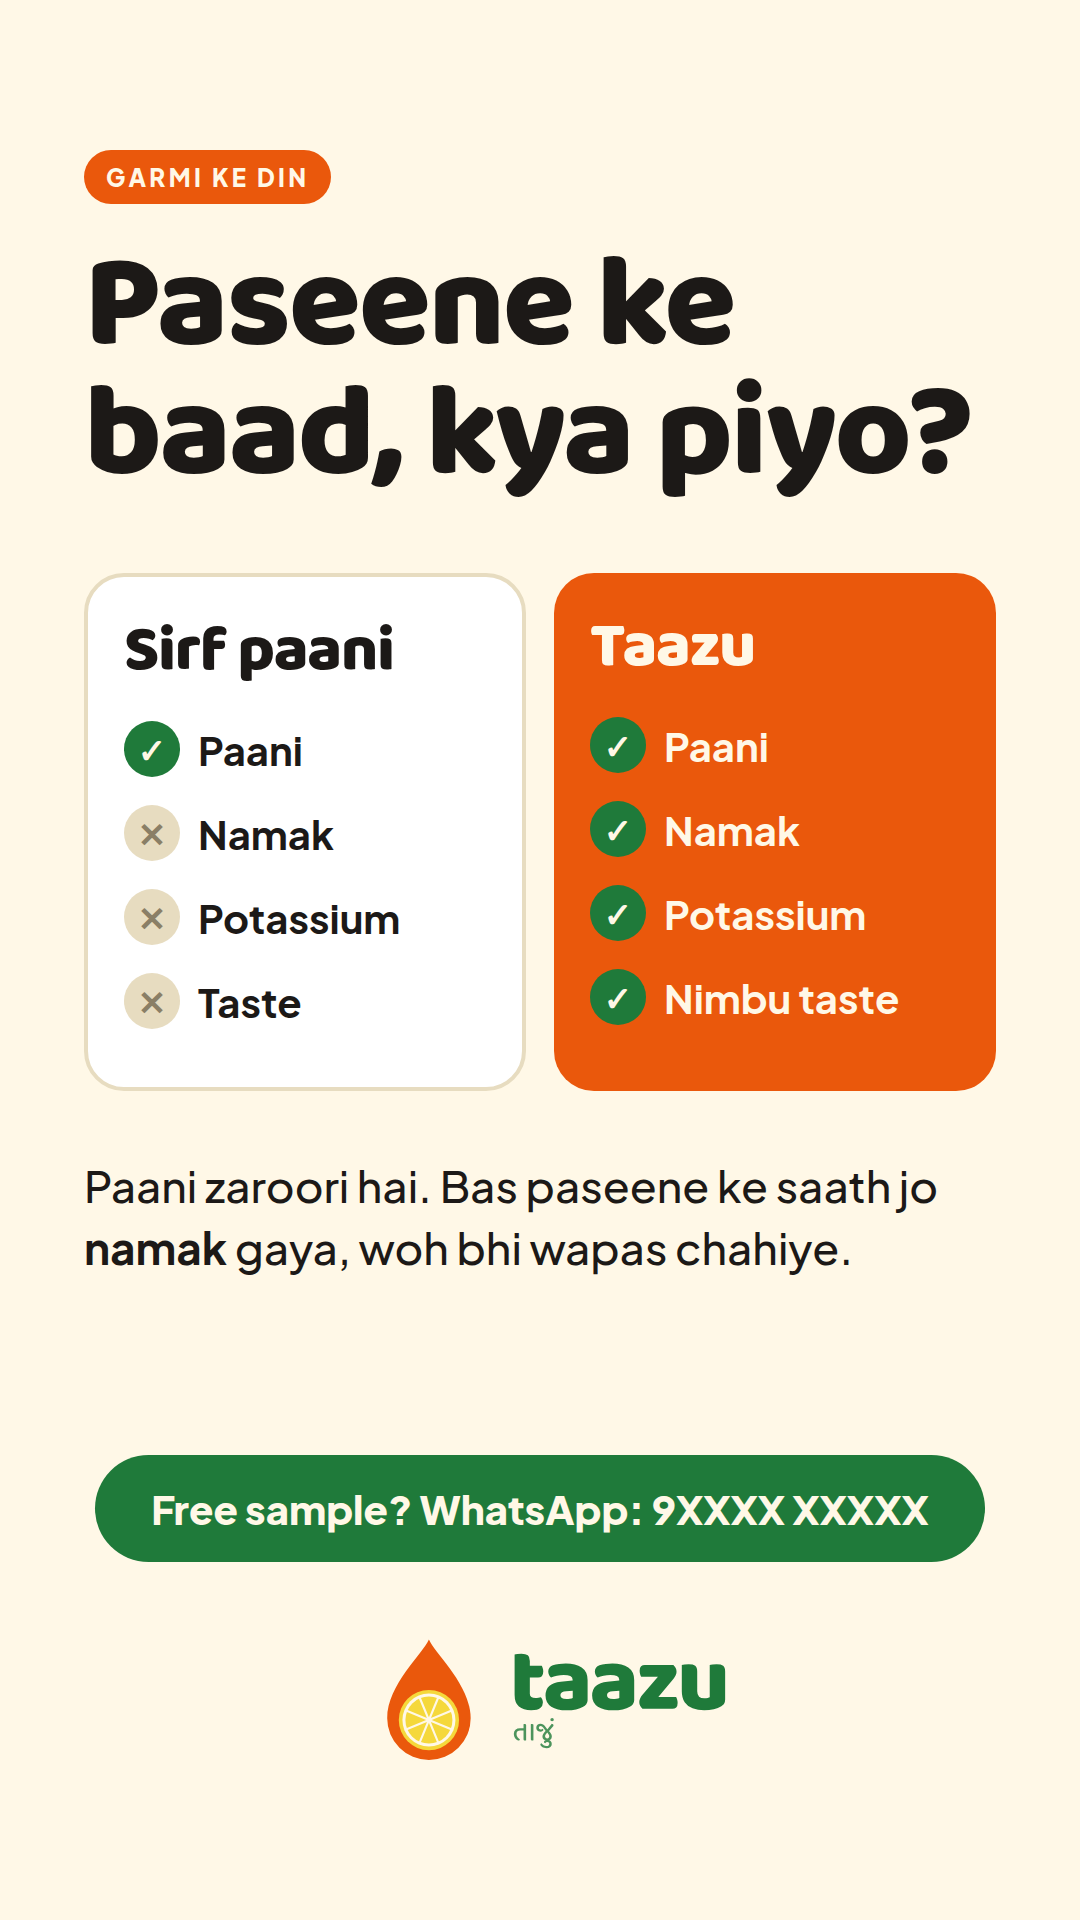
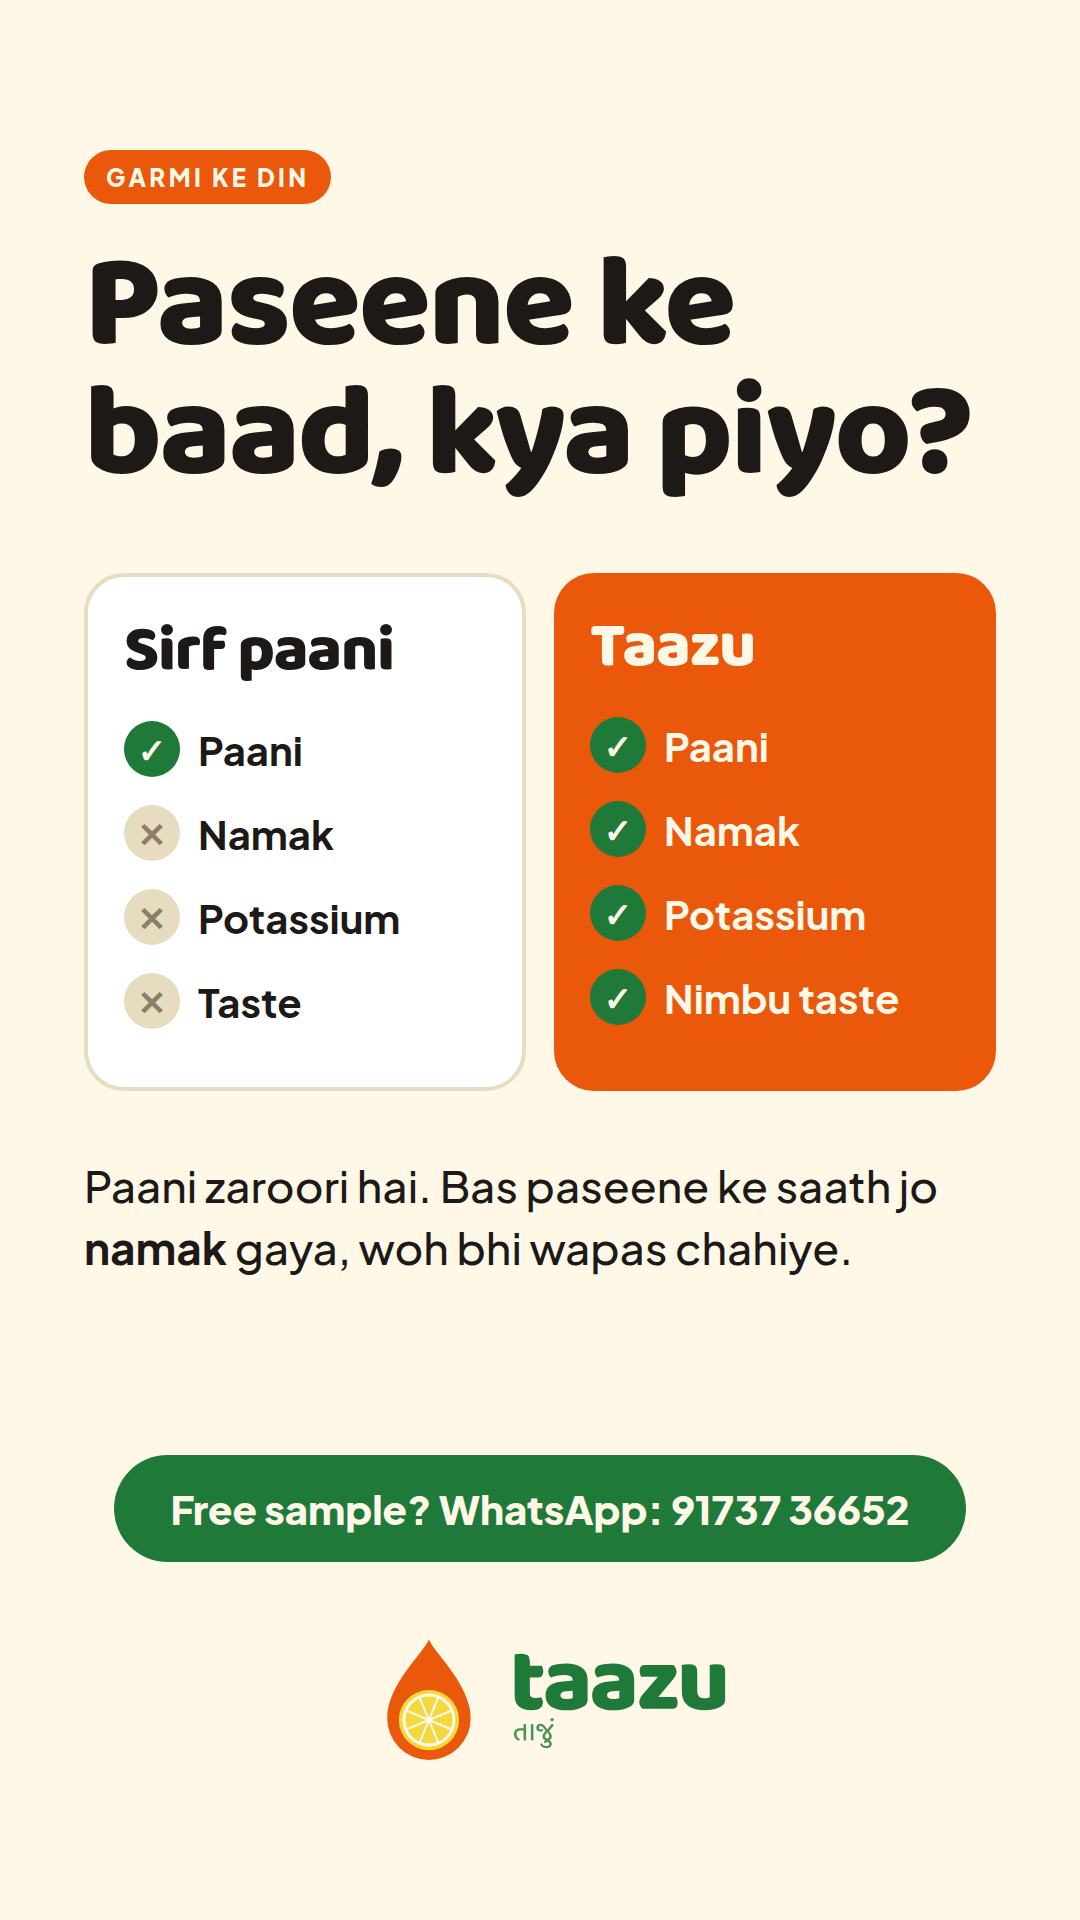
Brand kit: fill in ₹25 price, WhatsApp number and order QR
Story, A4 poster, Navratri post and Hindi poster now carry the real price
and WhatsApp 91737 36652; the poster QR opens a WhatsApp chat. Page,
README and captions updated to match.

Claude-Session: https://claude.ai/code/session_01Qx6Yj4noLC777LyuhJgzmX

Changed region(s): [[0.0917, 0.75, 0.9167, 0.8125]]

diff --git a/brand-kit/index.html b/brand-kit/index.html
@@ -408,10 +408,10 @@ footer{padding-block:56px 40px;color:var(--muted);font-size:14px}
   <div class="sec-head">
     <div class="eyebrow">Part 4</div>
     <h2>Awareness creatives</h2>
-    <p>8 ready files <code>brand-kit/creatives/</code> mein: Instagram posts (1080×1350), story (1080×1920), aur A4 poster (300 dpi, print ready). Har fact ke neeche source likha hai. Image par tap karke full size kholo. Pehle 5 aaj hi post ho sakte hain; <span class="pill fill">Fill</span> wale mein price ya number daalna hai.</p>
+    <p>8 ready files <code>brand-kit/creatives/</code> mein: Instagram posts (1080×1350), story (1080×1920), aur A4 poster (300 dpi, print ready). Har fact ke neeche source likha hai. Image par tap karke full size kholo. Price ₹25 aur WhatsApp 91737 36652 sab files mein bhara hai; poster ka QR scan karte hi WhatsApp chat khulti hai.</p>
   </div>
   <div class="cr-grid" id="cr-grid"></div>
-  <p class="muted" style="margin-top:16px;font-size:15px">₹__ aur 9XXXX XXXXX bharne ka sabse aasan tareeka: Canva mein PNG upload karo, upar Baloo Bhai 2 ExtraBold mein text box lagao. Ya Claude ko price aur number batao, woh files dobara bana dega.</p>
+  <p class="muted" style="margin-top:16px;font-size:15px">Price ya number badle to Claude ko batao, woh files dobara bana dega. Navratri post mein 250 ml bottle ka ₹25 likha hai; cup mein alag price rakhna ho to batana.</p>
 </section>
 
 <!-- ================= PROMPTS ================= -->
@@ -457,14 +457,14 @@ const SLOGANS = {
 };
 
 const CREATIVES = [
-  {f:"01-paseena-sirf-paani-nahi",t:"Paseena sirf paani nahi",fmt:"Post 4:5",ready:true,note:"~1 g sodium per litre of sweat · Baker 2017",cap:"Paseena sirf paani nahi hota. Har litre paseene ke saath lagbhag 1 gram sodium bhi nikal jaata hai, aur plain paani woh wapas nahi deta. 💧🍋\nGarmi mein khelte ho ya kaam karte ho? Paani ke saath namak bhi wapas lo.\nSource: Baker LB, Sports Medicine 2017.\n#Taazu #TaazuRaho #Amdavad #Ahmedabad #JoLogNahiJaante"},
+  {f:"01-paseena-sirf-paani-nahi",t:"Paseena sirf paani nahi",fmt:"Post 4:5",ready:true,note:"~1 g sodium per litre of sweat · Baker 2017",cap:"Paseena sirf paani nahi hota. Har litre paseene ke saath lagbhag 1 gram sodium bhi nikal jaata hai, aur plain paani woh wapas nahi deta. 💧🍋\nGarmi mein khelte ho ya kaam karte ho? Paani ke saath namak bhi wapas lo. Order: WhatsApp 91737 36652\nSource: Baker LB, Sports Medicine 2017.\n#Taazu #TaazuRaho #Amdavad #Ahmedabad #JoLogNahiJaante"},
   {f:"02-sirf-2-percent",t:"Sirf 2% kam",fmt:"Post 4:5",ready:true,note:"2% body water loss · ACSM 2007",cap:"Body ka sirf ~2% paani kam hua, aur stamina, focus, reaction time girne lagte hain. Aur pata bhi nahi chalta. 🔋\nSource: ACSM Position Stand, 2007.\n#Taazu #TaazuRaho #AhmedabadFitness #JoLogNahiJaante"},
   {f:"03-pyaas-late-lagti-hai",t:"Pyaas lagi? Late ho gaye",fmt:"Post 4:5",ready:true,note:"Drink before thirst · ACSM 2007",cap:"Pyaas lagi? Thoda late ho gaye. Garmi mein pyaas se pehle piyo, thoda-thoda, din bhar. ⏰\n#Taazu #TaazuRaho #Amdavad #Garmi"},
   {f:"04-amdavad-44-degree-gujarati",t:"44°C · આ અમદાવાદ છે",fmt:"Post 4:5",ready:true,note:"Gujarati heat post",cap:"44°C. આ અમદાવાદ છે. 🌞\nગરમીમાં પણ તાજું. Nimbu, namak ane thandak.\n#Taazu #GarmiMaPanTaazu #Amdavad #Ahmedabad #Gujarat"},
-  {f:"08-hindi-site-workers",t:"धूप में काम? (Hindi)",fmt:"Post 4:5 · A4 bhi",ready:true,note:"Sites, factories, canteens",cap:"धूप में काम? पसीने के साथ नमक भी जाता है। पानी पियो, नमक भी वापस लो, छाँव में थोड़ा आराम करो।\nContractors and canteens: sample ke liye WhatsApp karein.\n#Taazu #Ahmedabad"},
-  {f:"05-story-paani-vs-taazu",t:"Story: Paani vs Taazu",fmt:"Story 9:16",ready:false,fill:"WhatsApp no.",note:"Final recipe mein namak + potassium confirm hone ke baad hi post karo.",cap:"Story par WhatsApp link sticker aur poll lagao: \"Match ke baad tum kya peete ho?\" Paani / Cold drink / Nimbu soda / Kuch nahi."},
-  {f:"06-poster-a4-gym-turf",t:"A4 poster · gym aur turf",fmt:"A4 print 300 dpi",ready:false,fill:"₹ + QR",note:"300 gsm matte par print, laminate, acrylic standee mein counter par.",cap:"Match ke baad sirf paani? Garmi mein 1 ghante khelne se aadha se 2 litre tak paseena ja sakta hai. Saath mein namak bhi. Taazu: Paani se aage."},
-  {f:"07-navratri-garba-station",t:"Navratri · Garba station",fmt:"Post 4:5",ready:false,fill:"Cup ₹",note:"Station ke bahar bhi print karke lagao.",cap:"Garba ki raat lambi hai. 💃🕺 Round ke beech mein ek chilled Taazu. Station dhoondo, cup lo, wapas circle mein.\n#Taazu #Navratri #Garba #Amdavad #TaazuRaho"},
+  {f:"08-hindi-site-workers",t:"धूप में काम? (Hindi)",fmt:"Post 4:5 · A4 bhi",ready:true,note:"Sites, factories, canteens",cap:"धूप में काम? पसीने के साथ नमक भी जाता है। पानी पियो, नमक भी वापस लो, छाँव में थोड़ा आराम करो।\nContractors aur canteens: sample ke liye WhatsApp karein 91737 36652.\n#Taazu #Ahmedabad"},
+  {f:"05-story-paani-vs-taazu",t:"Story: Paani vs Taazu",fmt:"Story 9:16",ready:false,fill:"Recipe confirm",note:"WhatsApp 91737 36652 bhara hai. Final recipe mein namak + potassium confirm hone ke baad hi post karo.",cap:"Story par WhatsApp link sticker aur poll lagao: \"Match ke baad tum kya peete ho?\" Paani / Cold drink / Nimbu soda / Kuch nahi."},
+  {f:"06-poster-a4-gym-turf",t:"A4 poster · gym aur turf",fmt:"A4 print 300 dpi",ready:true,note:"₹25 + WhatsApp QR. 300 gsm matte par print, laminate, acrylic standee mein counter par.",cap:"Match ke baad sirf paani? Garmi mein 1 ghante khelne se aadha se 2 litre tak paseena ja sakta hai. Saath mein namak bhi. Taazu: Paani se aage. Chilled 250 ml ₹25. WhatsApp order: 91737 36652"},
+  {f:"07-navratri-garba-station",t:"Navratri · Garba station",fmt:"Post 4:5",ready:true,note:"250 ml ₹25. Station ke bahar bhi print karke lagao.",cap:"Garba ki raat lambi hai. 💃🕺 Round ke beech mein ek chilled Taazu. Station dhoondo, 250 ml sirf ₹25, wapas circle mein.\n#Taazu #Navratri #Garba #Amdavad #TaazuRaho"},
 ];
 
 const PROMPTS = [

diff --git a/brand-kit/README.md b/brand-kit/README.md
@@ -136,11 +136,11 @@ Before printing: final logo ko ek designer se clean karwao aur IP India par trad
 | `02-sirf-2-percent.png` | Post 4:5 | 2% body water loss | Ready |
 | `03-pyaas-late-lagti-hai.png` | Post 4:5 | Drink before thirst | Ready |
 | `04-amdavad-44-degree-gujarati.png` | Post 4:5 | Gujarati heat post | Ready |
-| `05-story-paani-vs-taazu.png` | Story 9:16 | Paani vs Taazu | Put your WhatsApp number in place of 9XXXX XXXXX. Post only after the final recipe has salt and potassium. |
-| `06-poster-a4-gym-turf.png` | A4 print, 300 dpi | Counter standee for gyms and turfs | Add the price in place of ₹__ and your QR code in the dashed box. |
-| `07-navratri-garba-station.png` | Post 4:5 | Navratri station | Add the cup price in place of ₹__. |
-| `08-hindi-site-workers.png` | Post 4:5 | Hindi poster for sites and factories | Ready. Print A4 for canteens too. |
+| `05-story-paani-vs-taazu.png` | Story 9:16 | Paani vs Taazu | WhatsApp 91737 36652 filled in. Post only after the final recipe has salt and potassium. |
+| `06-poster-a4-gym-turf.png` | A4 print, 300 dpi | Counter standee for gyms and turfs | Ready: ₹25 and a WhatsApp QR code (opens a chat with 91737 36652). |
+| `07-navratri-garba-station.png` | Post 4:5 | Navratri station | Ready: 250 ml ₹25. |
+| `08-hindi-site-workers.png` | Post 4:5 | Hindi poster for sites and factories | Ready, with WhatsApp number. Print A4 for canteens too. |
 
-Placeholders are easiest to fill in Canva: upload the PNG, put a text box over the placeholder in Baloo Bhai 2 ExtraBold. Or ask Claude to re-render with the real price and number.
+Price (₹25) and WhatsApp (91737 36652) are filled in. If either changes, ask Claude to re-render, or edit in Canva with a text box in Baloo Bhai 2 ExtraBold.
 
 Captions and AI prompts are in [`AI-PROMPTS.md`](AI-PROMPTS.md).

diff --git a/brand-kit/AI-PROMPTS.md b/brand-kit/AI-PROMPTS.md
@@ -159,7 +159,7 @@ Night garba ground, dancers spinning in colourful clothes, cut to a dancer stepp
 
 **01 · Paseena sirf paani nahi**
 > Paseena sirf paani nahi hota. Har litre paseene ke saath lagbhag 1 gram sodium bhi nikal jaata hai, aur plain paani woh wapas nahi deta. 💧🍋
-> Garmi mein khelte ho ya kaam karte ho? Paani ke saath namak bhi wapas lo.
+> Garmi mein khelte ho ya kaam karte ho? Paani ke saath namak bhi wapas lo. Order: WhatsApp 91737 36652
 > Source: Baker LB, Sports Medicine 2017.
 > #Taazu #TaazuRaho #Amdavad #Ahmedabad #JoLogNahiJaante
 
@@ -183,10 +183,10 @@ Night garba ground, dancers spinning in colourful clothes, cut to a dancer stepp
 **06 · A4 poster** — print on 300 gsm matte, laminate, put it in an acrylic standee at the counter.
 
 **07 · Navratri**
-> Garba ki raat lambi hai. 💃🕺 Round ke beech mein ek chilled Taazu. Station dhoondo, cup lo, wapas circle mein.
+> Garba ki raat lambi hai. 💃🕺 Round ke beech mein ek chilled Taazu. Station dhoondo, 250 ml sirf ₹25, wapas circle mein.
 > #Taazu #Navratri #Garba #Amdavad #TaazuRaho
 
 **08 · Hindi site workers**
 > धूप में काम? पसीने के साथ नमक भी जाता है। पानी पियो, नमक भी वापस लो, छाँव में थोड़ा आराम करो।
-> Contractors and canteens: sample ke liye WhatsApp karein.
+> Contractors aur canteens: sample ke liye WhatsApp karein 91737 36652.
 > #Taazu #Ahmedabad
